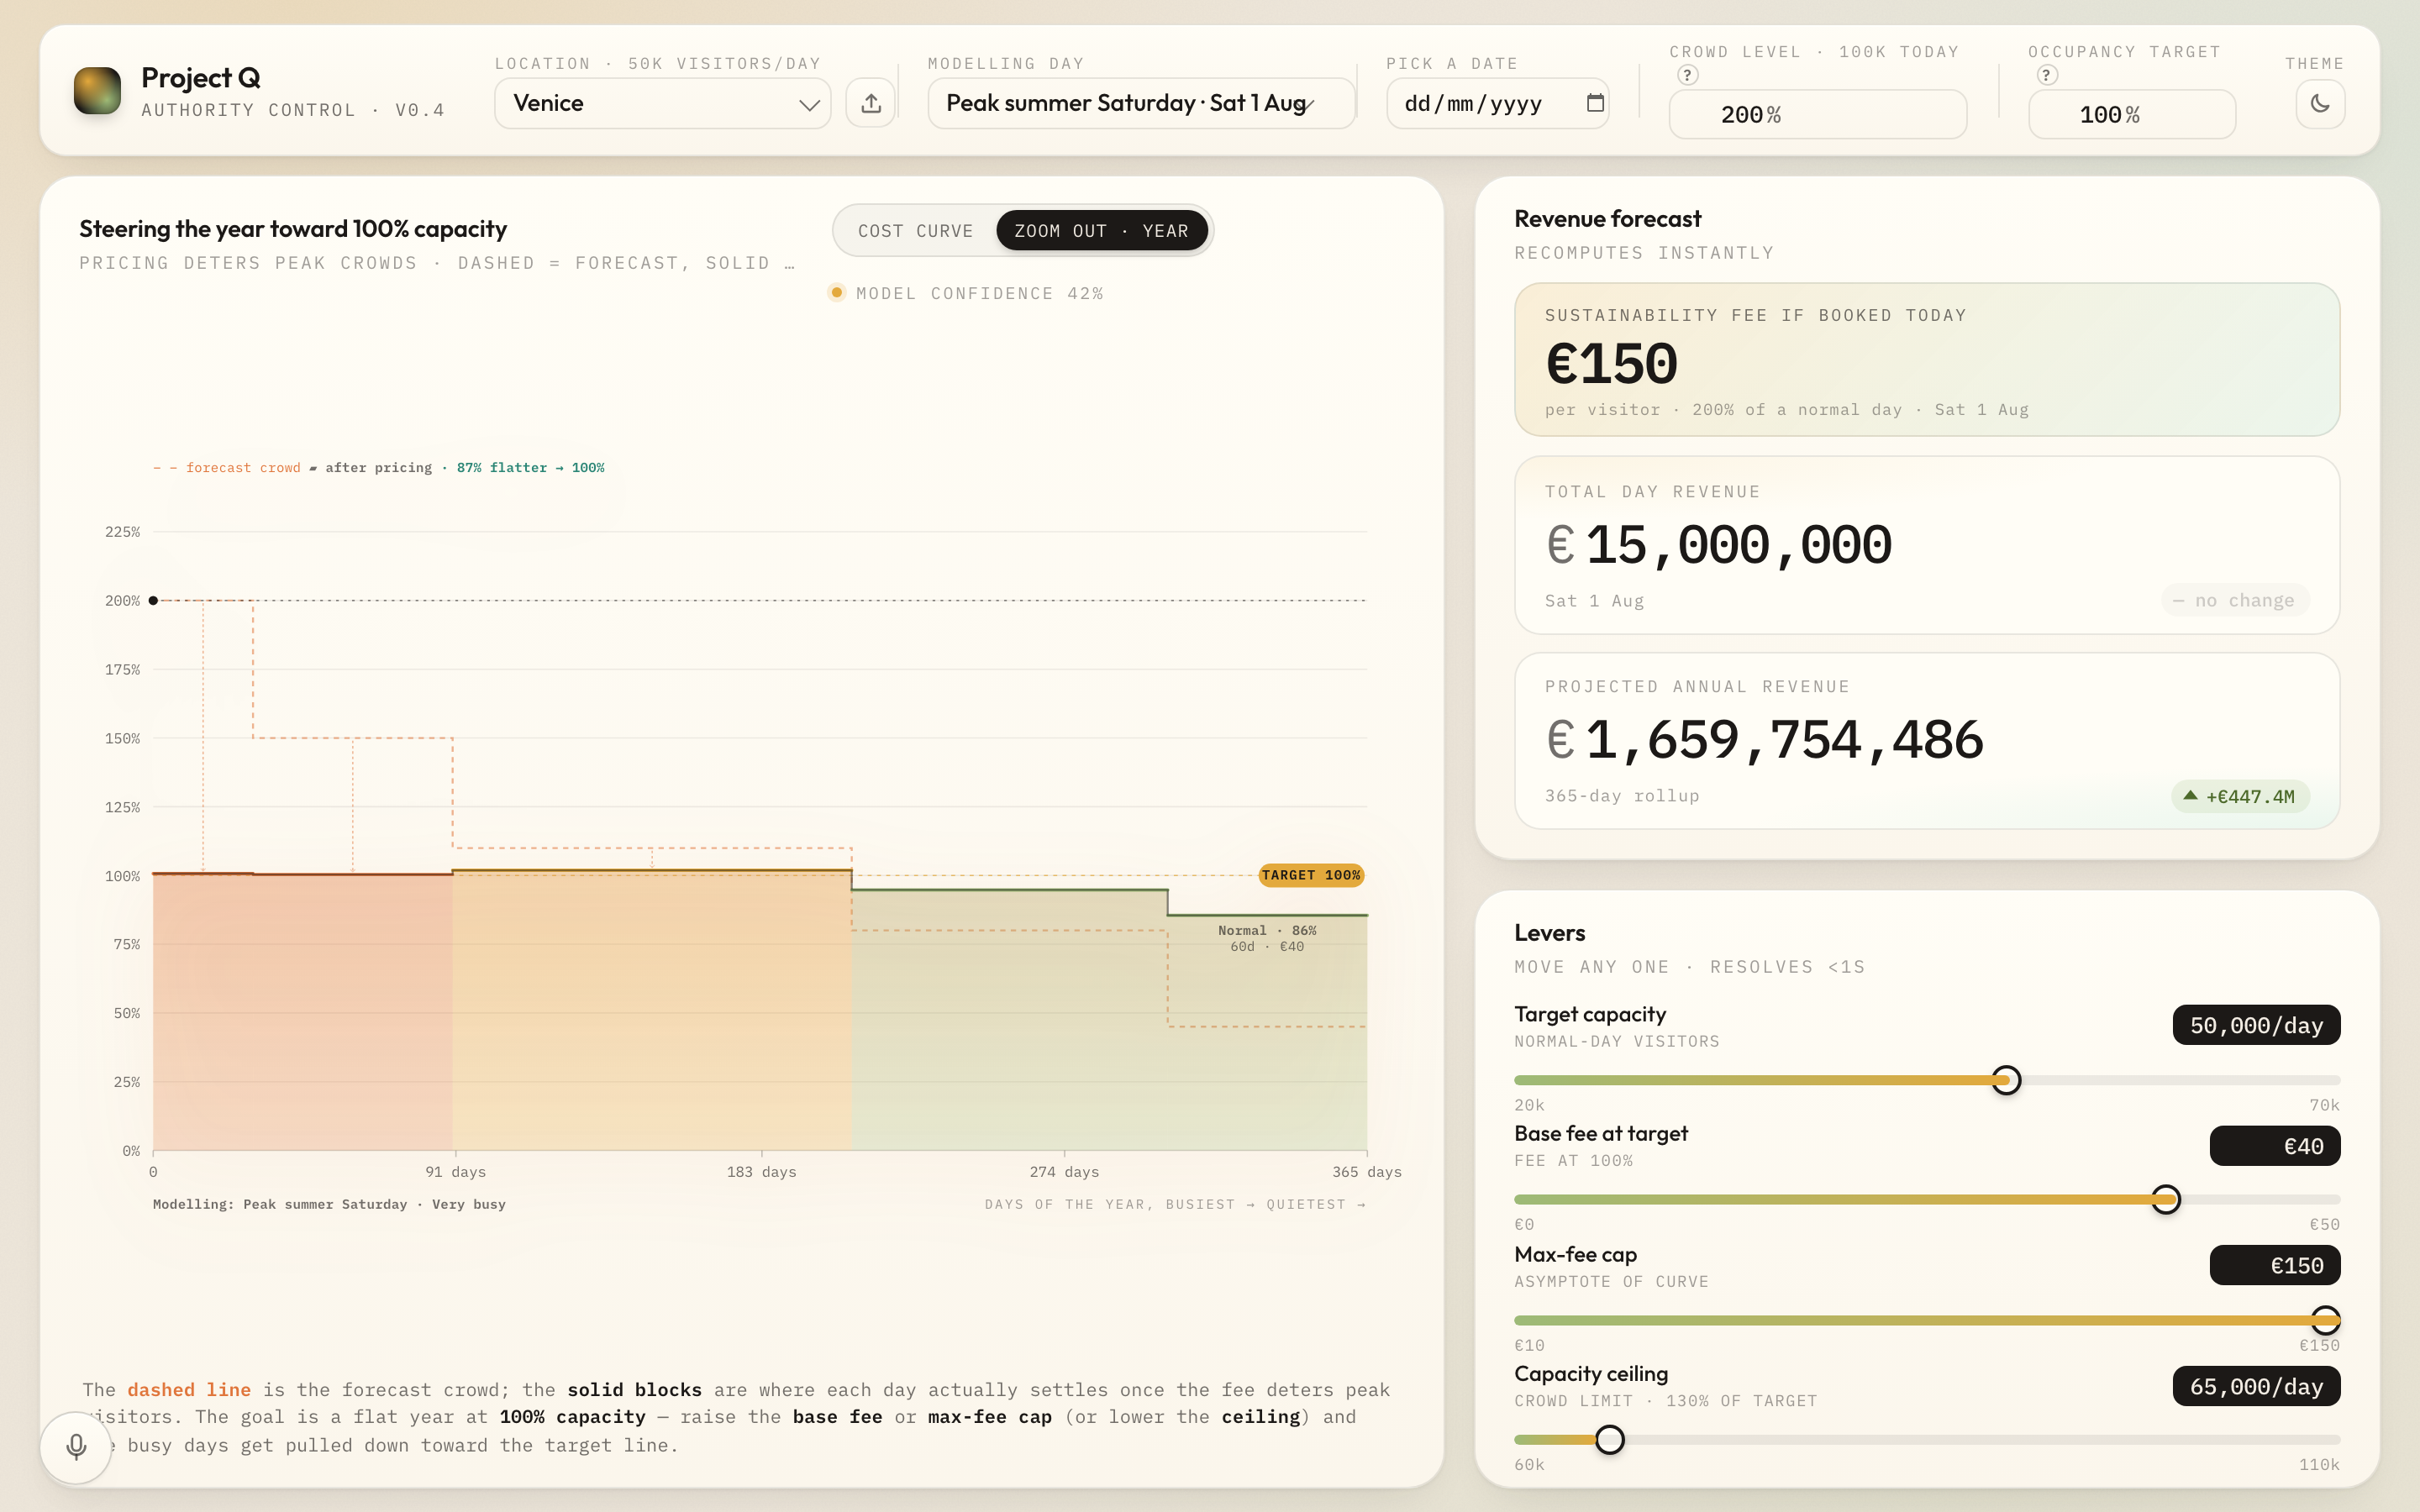
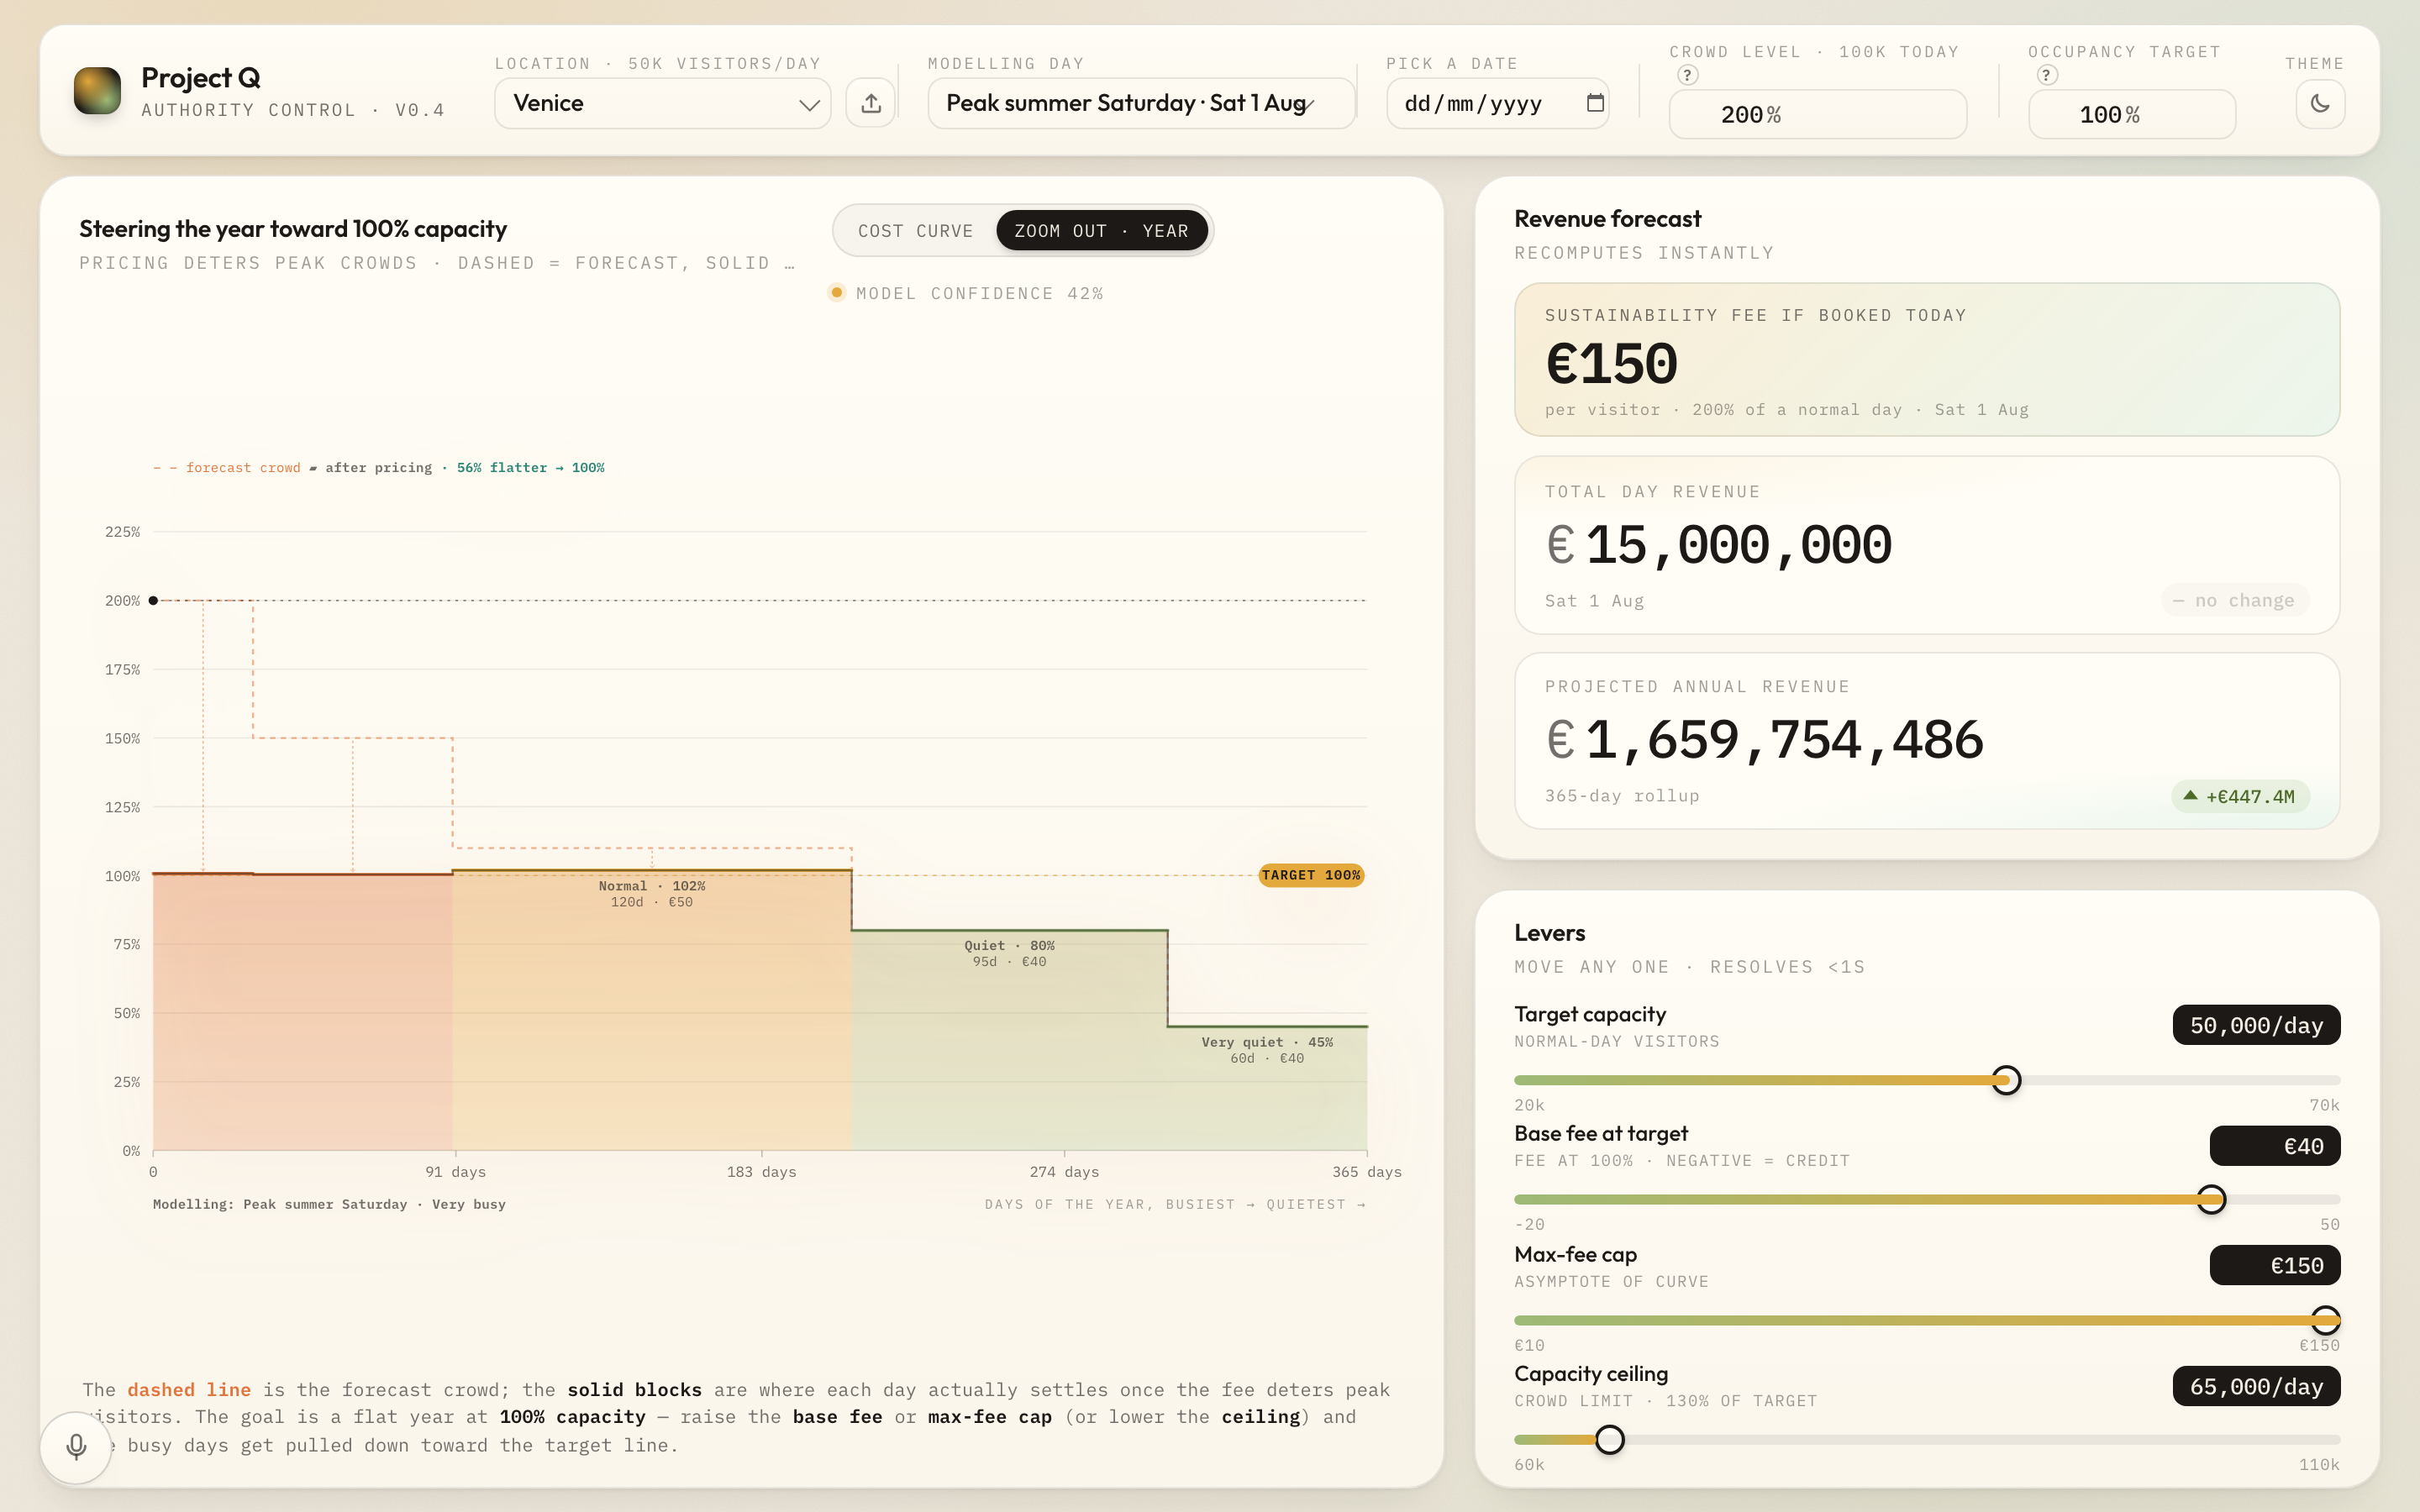
Base fee can go negative — a low-season credit that draws visitors in
Congestion pricing should work BOTH ways: deter peaks AND fill troughs. Base fee
now goes negative (min -€20) as a credit/discount that attracts visitors up toward
the occupancy target in low season.
- managedDemandPct: on quiet days (raw < target) a NEGATIVE fee now compresses the
  gap UP toward target (effort = max(0,-fee)); on busy days a positive fee still
  deters DOWN (effort = max(0,fee)). Verified: -€15 lifts a 45% day to 66.6%, the
  200% peak still settles at 118.9%, both regressions pass.
- Payload base_fee min 0 -> -20. Lever renders the sign correctly (-€15) with a
  'negative = credit' sub-line; a credited day's revenue is negative (the authority
  spends to fill the off-season, shown as NET CREDIT).

Changed region(s): [[0.3438, 0.56, 0.5625, 0.7156], [0.875, 0.7778, 0.9375, 0.8089]]

diff --git a/src/control/state.ts b/src/control/state.ts
@@ -185,9 +185,16 @@ export function occupancyTarget(snap: State = requireState()): number {
 }
 
 export function managedDemandPct(raw_pct: number, snap: State = requireState()): number {
-  const fee = Math.max(0, feeAtPct(raw_pct, snap));
+  const fee = feeAtPct(raw_pct, snap);
   const target = occupancyTarget(snap);
-  const compression = Math.exp(-fee / DEMAND_REF_EUR); // 1 at €0 fee → →0 as fee climbs
+  // Pricing works in BOTH directions, always steering toward the target:
+  //  • Busy days (raw ≥ target): a positive fee DETERS crowds down toward target;
+  //    the bigger the fee, the more it compresses. (A credit here is irrelevant.)
+  //  • Quiet days (raw < target): a NEGATIVE base fee — a credit/discount —
+  //    ATTRACTS visitors up toward target to fill the low season; a zero/positive
+  //    fee leaves the quiet day where it is (we never deter an already-quiet day).
+  const effort = raw_pct >= target ? Math.max(0, fee) : Math.max(0, -fee);
+  const compression = Math.exp(-effort / DEMAND_REF_EUR); // 1 at €0 → →0 as |fee| climbs
   return target + (raw_pct - target) * compression;
 }
 

diff --git a/src/control/LeversPanel.tsx b/src/control/LeversPanel.tsx
@@ -25,10 +25,10 @@ const LEVER_META: Record<LeverId, LeverMeta> = {
     format: (v) => fmtNumber(v),
   },
   base_fee: {
+    // Goes negative → a credit that draws visitors into the low season.
     label: "Base fee at target",
-    sub: "Fee at 100%",
-    prefix: "€",
-    format: (v) => String(v),
+    sub: "Fee at 100% · negative = credit",
+    format: (v) => (v < 0 ? `−€${Math.abs(v)}` : `€${v}`),
   },
   max_fee_cap: {
     label: "Max-fee cap",

diff --git a/STATUS.md b/STATUS.md
@@ -66,3 +66,4 @@
 [2026-05-31T02:47:27Z] · DONE · prod 200; live: secure /api/tts proxy deployed (GET {"ok":false} until key set), voice API + 7 female voices work, key name absent from bundle, 0 console errors; setup = add ELEVENLABS_API_KEY env var in Vercel + redeploy · a15b787
 [2026-05-31T03:21:17Z] · DIAGNOSED voice setup: env var was named ElevenLabs_API_Key (case-mismatch, now matched tolerantly) + Edge→Node runtime fix → probe ok:true keyLen 51; but ElevenLabs returns 402 paid_plan_required (free plan cannot use library voices via API). Added session-disable fallback to browser voice on 402/5xx so never silent. Key+proxy correct; needs paid ElevenLabs plan · 63265c3
 [2026-05-31T03:34:36Z] · DONE · staying free → browser female voice. Free ElevenLabs key blocked twice (402 paid_plan_required for library voices + 401 missing voices_read perm). Proxy now forwards real upstream status; client disables proxy on 401/402/429/5xx and falls to browser voice — verified live UI flips server-proxy→browser on first reply, never silent, 0 errors · da3dd1f
+[2026-05-31T03:42:13Z] · base fee can now go NEGATIVE (min -20) — a low-season credit that ATTRACTS visitors up toward target; managedDemandPct lifts quiet days on a credit (45%→66.6% at -€15) while busy-day deterrence unchanged; lever shows -€15, sub "negative = credit", credited day revenue goes negative (authority invests to fill off-season); regressions pass; build clean; pushing · bc121f0